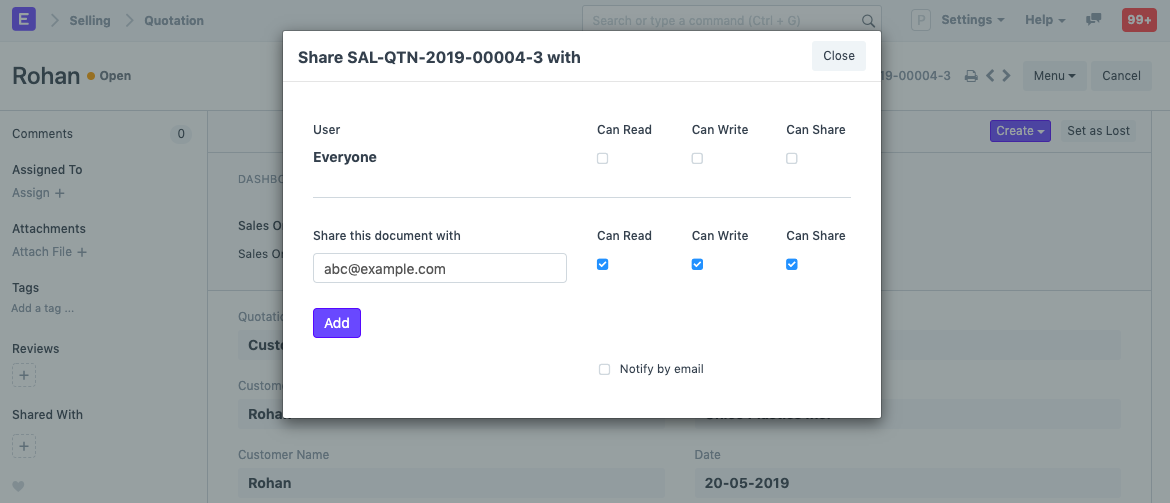
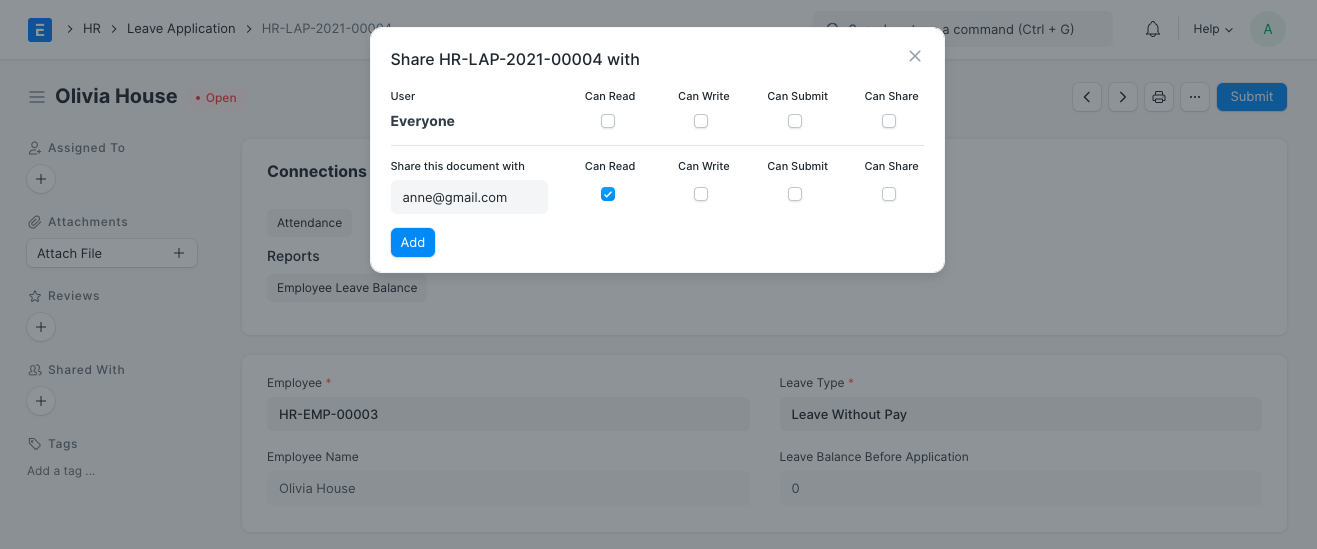
docs: DocShare with Submit and Approver Permissions

diff --git a/erpnext_documentation/www/docs/user/manual/en/human-resources/expense-claim.md b/erpnext_documentation/www/docs/user/manual/en/human-resources/expense-claim.md
@@ -7,7 +7,7 @@ For example, if they take a customer out for lunch, they can make a request for 
 
 To access an Expense Claim, go to:
 
-> Human Resources > Expense Claims > Expense Claim 
+> Human Resources > Expense Claims > Expense Claim
 
 ## 1. Prerequisites
 
@@ -41,6 +41,8 @@ Expense claim workflow
 ### Approving Expenses
 
 Approver for the Expense Claim is selected by an Employee himself. Employee can choose from the list of users who are configured as _Expense Approvers_ for their [Department](/docs/user/manual/en/human-resources/department).
+
+When a new Expense Claim is created, if the selected expense approver does not have access to it, the document is shared with the approver with "submit" permission.
 
 After saving Expense Claim, Employee should [Assign document to Approver](/docs/user/manual/en/using-erpnext/assignment). On assignment, approving user will also receive email notification. To automate email notification, you can also setup Email Alert
 

diff --git a/erpnext_documentation/www/docs/user/manual/en/human-resources/leave-application.md b/erpnext_documentation/www/docs/user/manual/en/human-resources/leave-application.md
@@ -80,6 +80,8 @@ Leave Approvers can also be set Employee-wise in the employee master.
 
 If Leave Approvers are set at both Employee-level and Department-level, the Employee-level Leave Approver will be considered as the default Leave Approver in this case.
 
+When a new Leave Application is created, if the selected leave approver does not have access to it, the document is shared with the approver with "submit" permission.
+
  **Tip:** If you want all users to create their own Leave Applications, you can set
 their “Employee ID” as a match rule in the Leave Application Permission
 settings. Check [Setting Up Permissions](/docs/user/manual/en/setting-up/users-and-permissions/user-permissions.html)

diff --git a/erpnext_documentation/www/docs/user/manual/en/setting-up/users-and-permissions/sharing.md b/erpnext_documentation/www/docs/user/manual/en/setting-up/users-and-permissions/sharing.md
@@ -11,8 +11,7 @@ To share a document, open the document, click on the "+" icon under sharing and 
 
 In the popup window, you can either select all users or one particular user.
 
-Read, write, and share access can be granted to the user for this document.
-Ticking 'Notify by Email' will send an email notifying the user that this document has been shared with them.
+Read, write, submit, and share access can be granted to the user for this document.
 
 ### Related Topics
 1. [Role and Role Profile](/docs/user/manual/en/setting-up/users-and-permissions/role-and-role-profile)

diff --git a/erpnext_documentation/www/docs/user/manual/en/human-resources/shift-management.md b/erpnext_documentation/www/docs/user/manual/en/human-resources/shift-management.md
@@ -97,10 +97,10 @@ To create a new Shift Request go to:
 
 
 1. Go to Shift Request List, Click on New.
-1. Select Employee and Shift Type
+1. Select Employee and Shift Type.
 1. Set the Shift duration using From Date and To Date.
-1. Select Approver
-1. Save
+1. Select the Approver. If the selected approver does not have access to the Shift Request document, it is shared with the approver with "submit" permission.
+1. Save.
 
 	<img class="screenshot" alt="Shift Request" src="{{docs_base_url}}/assets/img/human-resources/shift-request.png">
 
